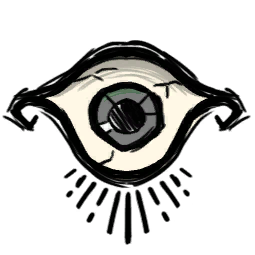
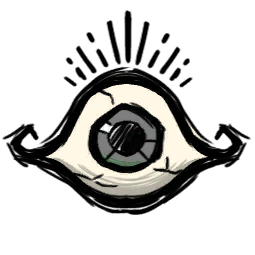
ui: 눈 아이콘 한 번 더 vertical flip (v0.11.8)
이전 v0.11.7에서 vertical flip을 두 번 적용해 원위치로 돌아간 상태였음. 한 번 더 적용하여 광선이 위로, 곡선이 아래로 향하는 최종 방향으로.

diff --git a/src/lib/version.ts b/src/lib/version.ts
@@ -1,1 +1,1 @@
-export const APP_VERSION = "0.11.7";
+export const APP_VERSION = "0.11.8";
